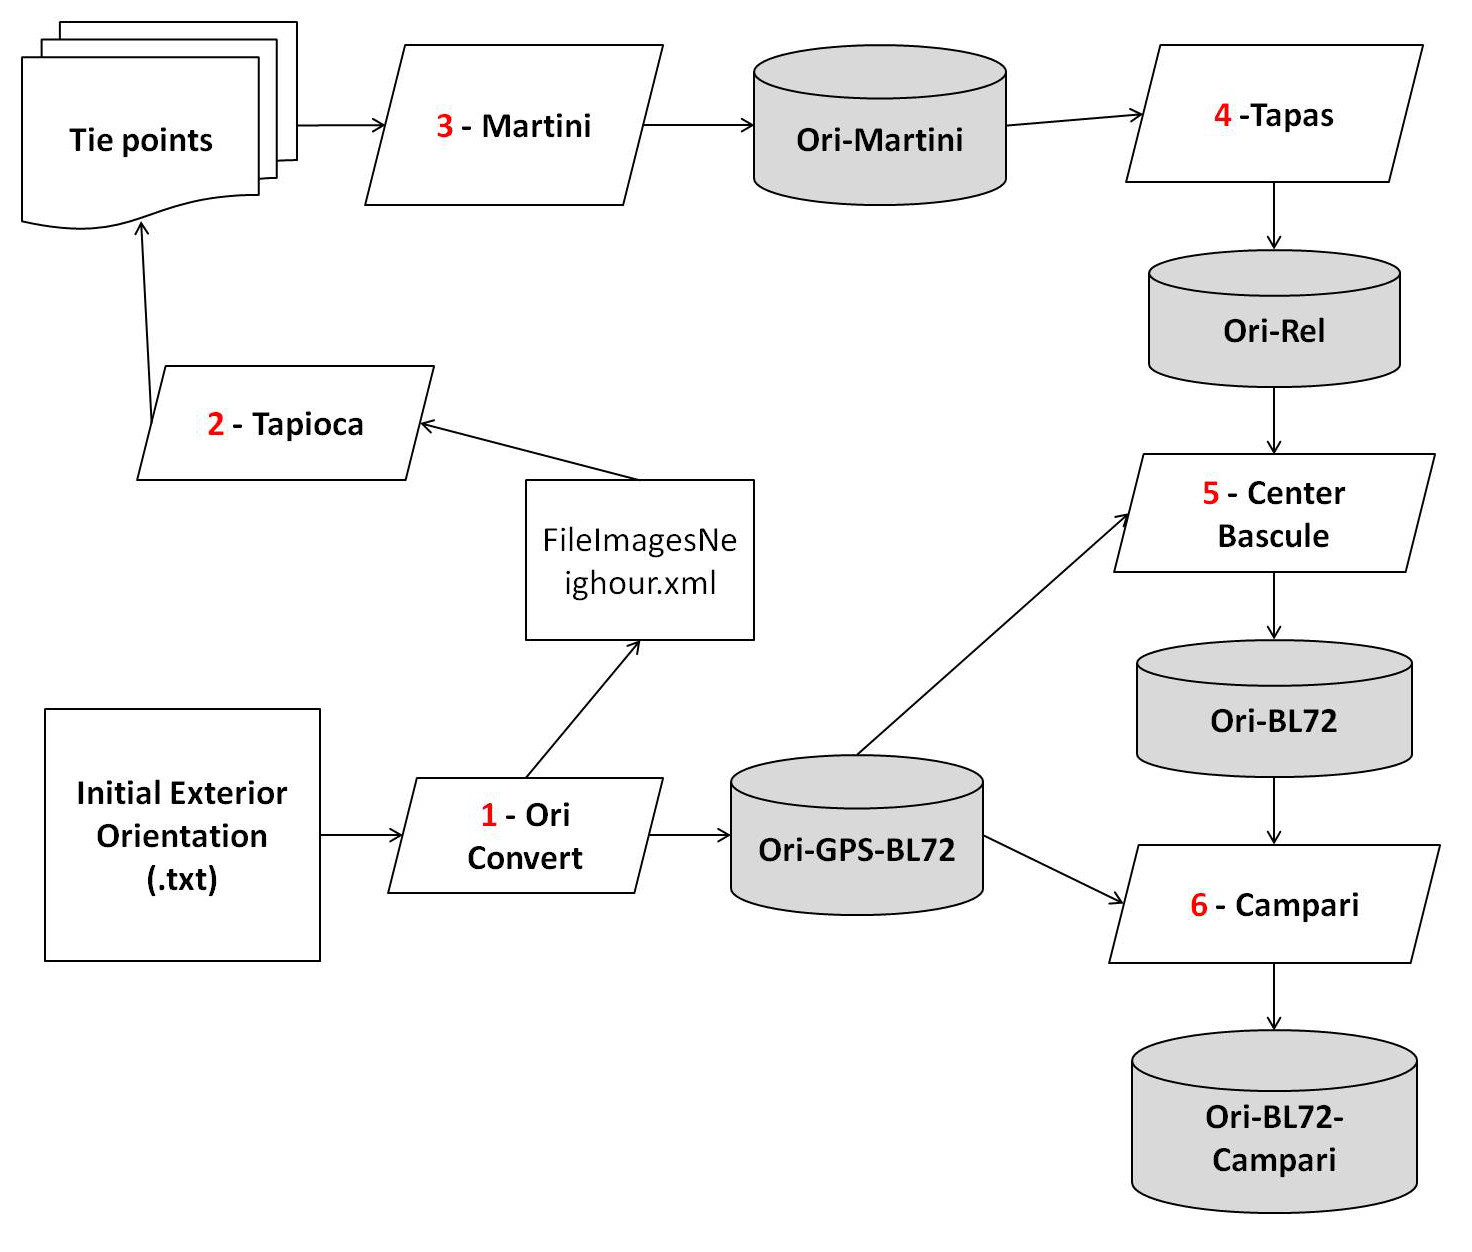
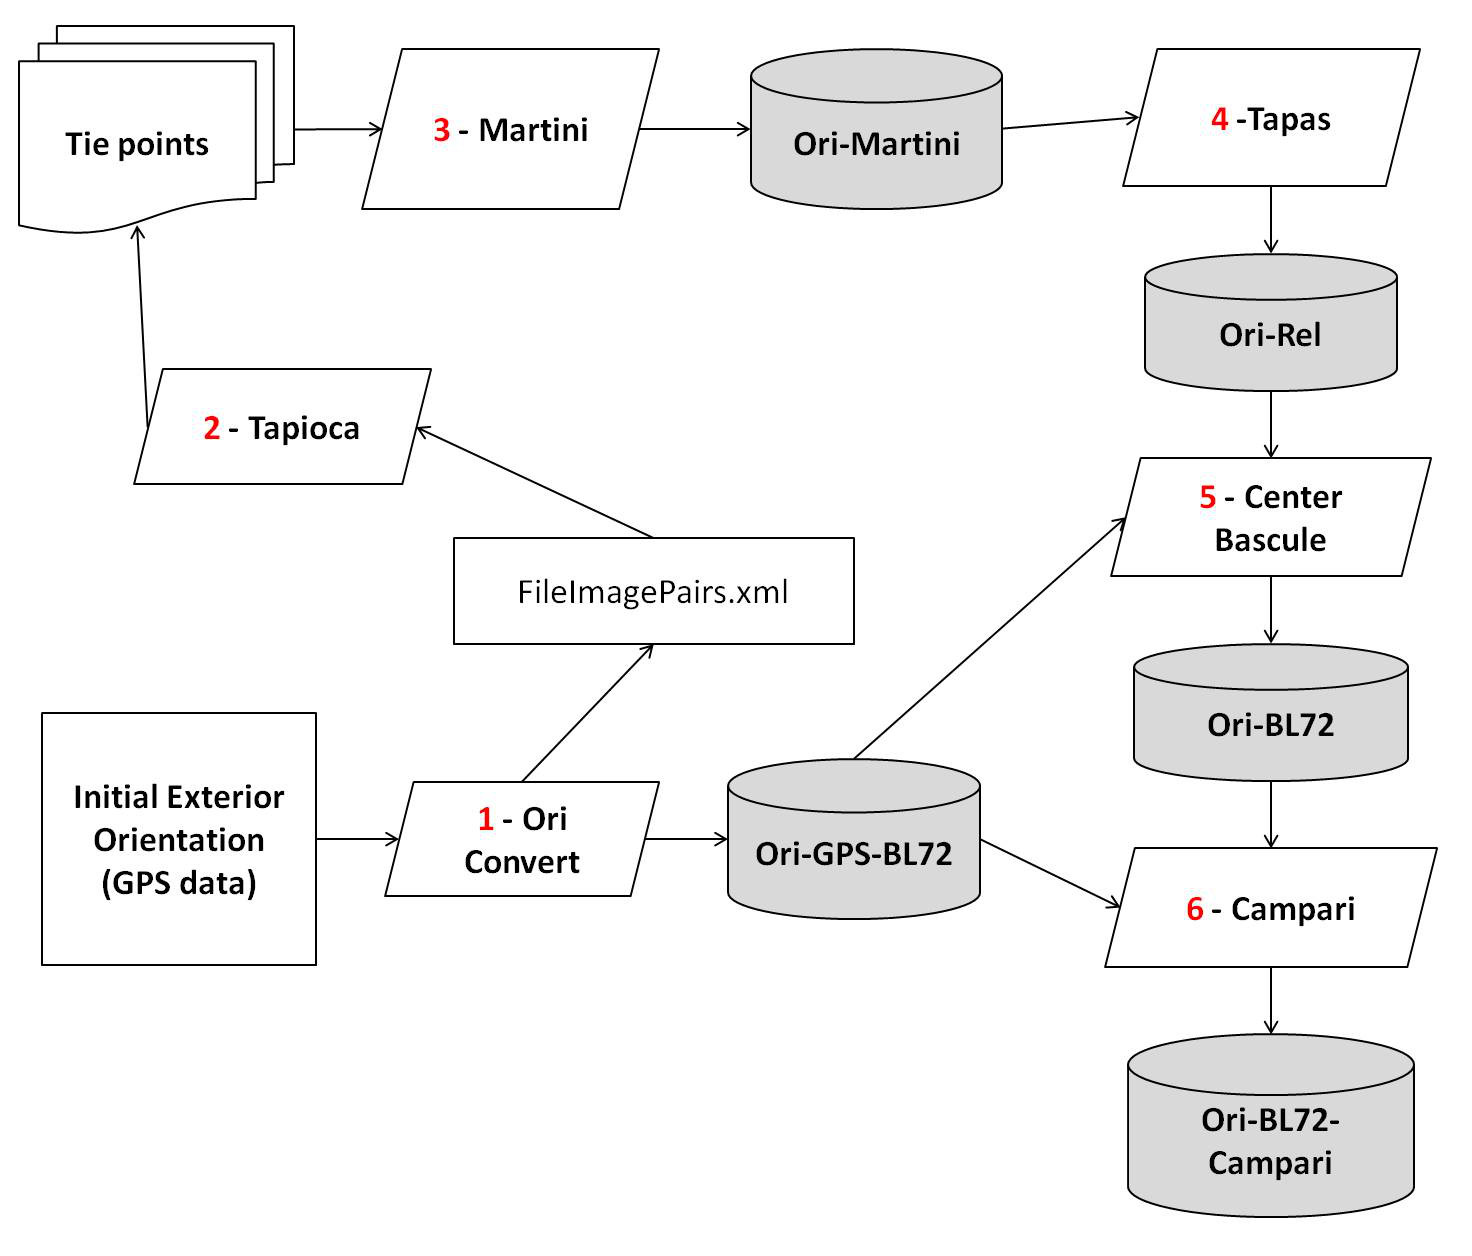
add ExpTxt option in PIMs (tie points used for ChImSec and for computing Epipolar orientation)

diff --git a/Documentation/Generalites/QuickStartSimplified-Tools-2.tex b/Documentation/Generalites/QuickStartSimplified-Tools-2.tex
@@ -653,13 +653,13 @@ Tawny Ortho-MEC-Malt/
 \end{figure}
 
 %-------------------------------------------------------------------
-\section{The Grand-Leez data set}
+\section{The Grand-Leez dataset}
 %-------------------------------------------------------------------
 
-\subsection{Description of the data set}\label{Grand-Leez:DataSet}
+\subsection{Description of the dataset}\label{Grand-Leez:DataSet}
 
 The directory {\tt UASGrandLeez/} in {\tt micmac\_data/ExempleDoc/}, contains UAS\footnote{Unmanned Aerial System or {\tt drone}} imagery which will be used for illustrating a complete workflow devoted to the the production of a canopy surface model. 
-This aerial survey has been performed by the unit of forest and nature management\footnote{\url{http://www.gembloux.ulg.ac.be/gestion-des-ressources-forestieres-et-des-milieux-naturels/}}, university of Liege. 
+This aerial survey has been performed by the unit of forest and nature management\footnote{\url{http://www.gembloux.ulg.ac.be/gestion-des-ressources-forestieres-et-des-milieux-naturels/}}, university of Liege (Belgium). 
 This image block is made up of 200 low-oblique vantage jpeg images, acquired with a Ricoh GRIII (10 Mpixels, focal length of 28 mm 35 equivalent). 
 The flight has been performed with a Gatewing X100\footnote{\url{http://www.gatewing.com/}} platform.
 The inertial measurement unit provides GPS position and attitude (omega, phi, kappa) of the UAS for each image frame (stored in {\tt GPS\_WPK\_Grand-Leez.csv} file). 
@@ -673,7 +673,7 @@ A convenient tools for visualizing multiple images in a panel is the tools {\tt 
 \begin{figure}[H]
 \centering
 \includegraphics[height=0.5\linewidth]{FIGS/UASGrandLeez/PanelGL.JPG}
-\caption{The set of Grand-Leez}
+\caption{The dataset of Grand-Leez}
 \label{FIG:panel-GL}
 \end{figure}
 
@@ -682,7 +682,7 @@ mm3d PanelIm ./ "R00405[0-5][0:2:4:6:8].JPG" Scale=3
 \end{verbatim}
 
 In this example, we deal with direct georeferencing, that is the act of using camera positions for georeferencing the model. 
-At first, the tools {\tt OriConvert} (section \ref{OriConvert})  is used for converting telemetry data into MicMac format. 
+At first, the tools {\tt OriConvert} (section \ref{OriConvert})  is used for converting telemetry data into {\tt MicMac} format. 
 Telemetry data aren't exclusively utilized for georeferencing, but also for determining potential image pairs.
 The list of image pairs is then utilized for the computation of tie points ({\tt Tapioca File \dots}). 
 In addition, embedded GPS data are utilized in a constrained bundle block adjustment in order to avoid non-linear distortions which can hinder photogrammetric measurements.
@@ -692,13 +692,13 @@ The pipeline presented here to process UAS imagery with embedded GPS data with {
 \begin{enumerate}
  \setlength{\itemsep}{0pt}
   \setlength{\parskip}{0pt}
-\item Transform initial external orientation file (embedded GPS data) into the micmac format and generate image pairs file with {\tt OriConvert}. 
+\item Transform initial external orientation file (embedded GPS data) into the {\tt MicMac} format and generate image pairs file with {\tt OriConvert}. 
 In addition, latitude and longitude GPS information are projected in the Belgian Lambert 72 coordinate system;
 \item Compute images tie points with {\tt Tapioca File};
 \item Initialize the image block orientation with {\tt Martini};
 \item Determine images relative orientation, with {\tt Tapas};
 \item Transform images relative orientation into absolute orientation, e.g. performing direct georeferencing, with {\tt CenterBascule};
-\item Improve the aerotriangulated model by adding GPS information in the bundle block adjustement, with {\tt Campari};
+\item Improve the aerotriangulated model by adding GPS information in the bundle block adjustment, with {\tt Campari};
 \end{enumerate}
 \vspace{-0.8\topsep}
 It results in the image orientation ({\tt Ori-BL72-Campari}), which is used for performing the image dense matching and subsequently the image orthorectification and mosaicking.
@@ -706,15 +706,15 @@ The canopy surface is characterized by many abrupt vertical changes, which are d
 The dense matching is performed in \textit{image geometry} with the \textit{Per Image Matchings} tools {\tt PIMs}. 
 Thus, one depth map is computed for each image. 
 These depth maps are then georeferenced and merged in one single digital surface model covering the entire area.
-The canopy surface model is then used of orthorectification and individual orthoimages then are mosaicked.
+The canopy surface model is then used of orthorectification and individual orthoimages are then mosaicked.
 The remaining of the workflow is thus as following;
 \vspace{-0.8\topsep}
 \begin{enumerate}\addtocounter{enumi}{6}
  \setlength{\itemsep}{0pt}
   \setlength{\parskip}{0pt}
 \item Compute depth map for each image with \textit{Per Image Matching} Tools ({\tt PIMs});
-\item Merge individual depth map in a global Digital Surface Model  and compute orthoimage with {\tt PIMs2Mnt};
-\item Merge the individual orthoimage in an orthophotomosaick with {\tt Tawny}.
+\item Merge individual depth maps in a global Digital Surface Model  and compute orthoimage with {\tt PIMs2Mnt};
+\item Merge individual orthoimages in an orthophotomosaic with {\tt Tawny}.
 \end{enumerate}
 \vspace{-0.8\topsep}
 
@@ -730,20 +730,20 @@ The final orientation database which is used for the dense matching process and 
 \label{FIG:workflowGLOri}
 \end{figure}
 
-\subsubsection{Conversion of GPS data in micmac format}
+\subsubsection{Conversion of GPS data in {\tt MicMac} format}
 
 \begin{verbatim}
 mm3d OriConvert OriTxtInFile GPS_WPK_Grand-Leez.csv GPS-BL72  MTD1=1\
-       ChSys=DegreeWGS84@SysCoBL72_EPSG31370.xml  NameCple=FileImagesNeighbour.xml 
+       ChSys=DegreeWGS84@SysCoBL72_EPSG31370.xml  NameCple=FileImagePairs.xml 
 \end{verbatim}
-Note that micmac uses the proj4 library to change the coordinate systems. 
+Note that {\tt MicMac} uses the proj4 library to change the coordinate systems. 
 The Belgian Lambert 72 coordinate system is defined using its "proj4 code" written in an xml file (see {\tt SysCoBL72\_EPSG31370.xml})
 
 \subsubsection{Tie points}
-The file {\tt FileImagesNeighbour.xml} is used for computing tie points with {\tt Tapioca}.
+The file {\tt FileImagePairs.xml} is used for computing tie points with {\tt Tapioca}.
 
 \begin{verbatim}
-Tapioca File ``FileImagesNeighbour.xml'' -1
+Tapioca File ``FileImagePairs.xml'' -1
 \end{verbatim}
 
 Tie points are used as observation in the bundle adjustment ({\tt Tapas} and {\tt Campari}) for determining the element of image orientation (external orientation and camera calibration). 
@@ -756,12 +756,12 @@ Initialization of the orientation for large image block (hundreds of image) can 
 mm3d Martini "R.*.JPG"
 AperiCloud "R.*.JPG" Martini Out=Martini-cam.ply WithPoints=0
 \end{verbatim}
-As {\tt Martini} do not account for any radial distortion of the lens, the visual inspection of the image orientation with AperiCloud show large non-linear distortions.
+As {\tt Martini} do not account for any radial distortion of the lens, the visual inspection of the image orientation with {\tt AperiCloud} show large non-linear distortions.
 Initialization of the image orientation can also be performed successfully directly with {Tapas}, but for large image block, the use of {\tt Martini} is faster.
-The complete dataset is then aligned in a relative orientation {\tt Rel}:
+The complete dataset is then aligned in a relative orientation {\tt Rel} with the folling command line:
 
 \begin{verbatim}
-Tapas RadialBasic "R.*.JPG" Out=Rel InCal=Martini
+Tapas RadialBasic "R.*.JPG" Out=Rel InOri=Martini
 \end{verbatim}
 
 \subsubsection{Georeferencing}
@@ -774,7 +774,7 @@ CenterBascule "R.*.JPG" Rel GPS-BL72 BL72
 
 \subsubsection{Bundle adjustment with embedded GPS data}
 
-Adding GPS information in the bundle adjustment has a positive impact on the refinement of the camera orientation, in particular in the camera calibration.
+Adding GPS information in the bundle adjustment has a positive impact on the refinement of the camera orientation, in particular on the camera calibration.
 \begin{verbatim}
 Campari "R.*.JPG" BL72 BL72-Campari EmGPS=[GPS-BL72,2] FocFree=1 PPFree=1
 \end{verbatim}
@@ -787,9 +787,9 @@ The digital surface model of the canopy is created with {\tt PIMs} and {\tt PIMs
 mm3d PIMs Forest "R00.*.JPG" BL72-Campari  ZoomF=2
 \end{verbatim}
 
-The mode {\tt Forest} of the {\tt PIMs} tools is appropriate for aerial image of forested zone. 
+The mode {\tt Forest} of the {\tt PIMs} tools is appropriate for aerial images of forested zone. 
 In this mode, a dense matching is performed independently for every pairs of successive images.
-In the terminal, a message display the pairs that will be used of stereo image matching:
+In the terminal, a message display the pairs that will be used for stereo image matching (in epipolar geometry):
 \begin{verbatim}
 Adding the following image pair: R0040571.JPG and R0040570.JPG 
 Adding the following image pair: R0040572.JPG and R0040571.JPG 
@@ -798,8 +798,19 @@ Adding the following image pair: R0040573.JPG and R0040572.JPG
 \end{verbatim}
 
 Dense matching is time consuming and generates a lot of intermediate results.
+Figure \ref{FIG:pimsGL} illustrates the functioning of the  \textit{Per Image Matchings} approach.
+
+\begin{figure}
+\centering
+\includegraphics[width=0.8\linewidth]{FIGS/UASGrandLeez/PIMsGL.jpg}
+\caption{Simplified representation of the functioning of the \textit{Per Image Matchings} approach implemented in the {\tt PIMs Forest} tools.
+Image dense matching is performed for a list of image pairs, resulting in one (or more) depth map per image.
+These depth maps are georeferenced and merged together with the tools {\tt PIMs2Mnt}. }
+\label{FIG:pimsGL}
+\end{figure}
+
 Stereo depth maps are merged together with {\tt PIM2Mnt}. 
-Subsequently, orthorectification is performed for each image and orthoimage are stored in the directory { \tt PIMs-ORTHO/}.
+Subsequently, orthorectification is performed for each image and orthoimages are stored in the directory { \tt PIMs-ORTHO/}.
 
 \begin{verbatim}
 mm3d PIMs2Mnt Forest DoOrtho=1
@@ -807,8 +818,8 @@ mm3d PIMs2Mnt Forest DoOrtho=1
 
 The global digital surface model resulting from the merging of every single depth maps is the raster file named {\tt PIMs-TmpBasc/PIMs-Merged\_Prof.tif}.
 It can be visualized and analysed in any GIS software. 
-Eventually, orthoimage are mosaicked together with {\tt Tawny}.
-Because the radiometry of the different images are quite similar (no important luminosity changes during the image acquisition), no radiometric equalization are performed ({\tt RadiomEgal=0}).
+Eventually, orthoimages are mosaicked together with {\tt Tawny}.
+Because the radiometry of the different images are quite similar (no important illumination changes during the image acquisition), no radiometric equalization are performed ({\tt RadiomEgal=0}).
 
 \begin{verbatim}
 Tawny PIMs-ORTHO/ RadiomEgal=0 Out=Orthophotomosaic.tif
@@ -829,8 +840,8 @@ meshlab CanopySurfaceModel.ply
 \begin{figure}
 \centering
 \includegraphics[width=\linewidth]{FIGS/UASGrandLeez/GL_ori.jpg}
-\includegraphics[width=0.45\linewidth]{FIGS/UASGrandLeez/GL_zoomDSM.jpeg}
-\includegraphics[width=0.45\linewidth]{FIGS/UASGrandLeez/GL_zoomOrtho.jpeg}
+\includegraphics[width=0.49\linewidth]{FIGS/UASGrandLeez/GL_zoomDSM.jpeg}
+\includegraphics[width=0.49\linewidth]{FIGS/UASGrandLeez/GL_zoomOrtho.jpeg}
 \includegraphics[width=\linewidth]{FIGS/UASGrandLeez/GL_denseCloud.jpg}
 \caption{Illustration of the different results for the Grand-Leez dataset. 
 Top: the orientation (camera poses and tie points). 
